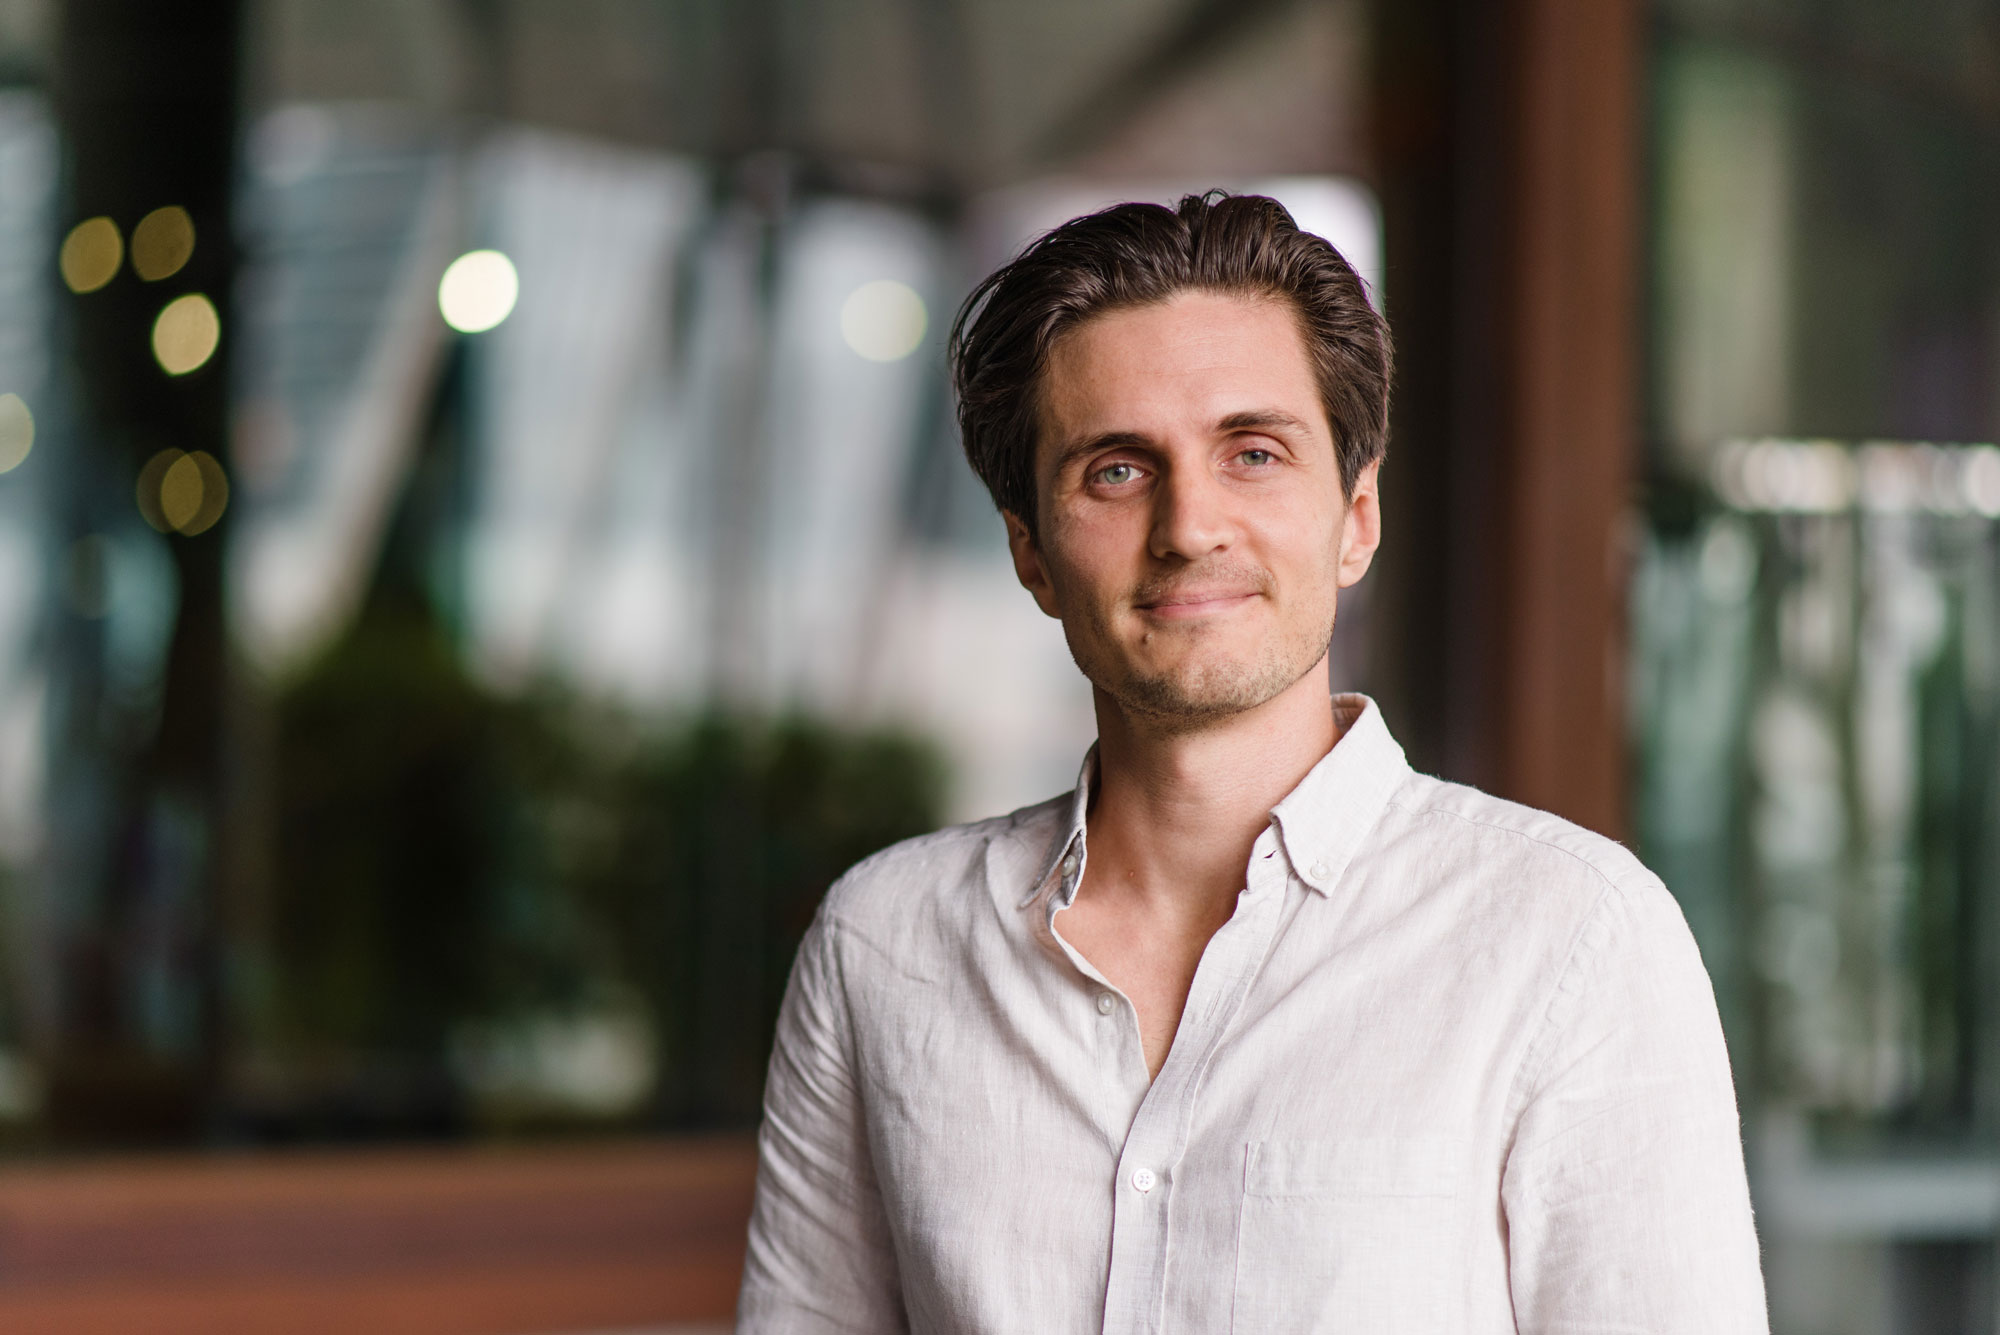
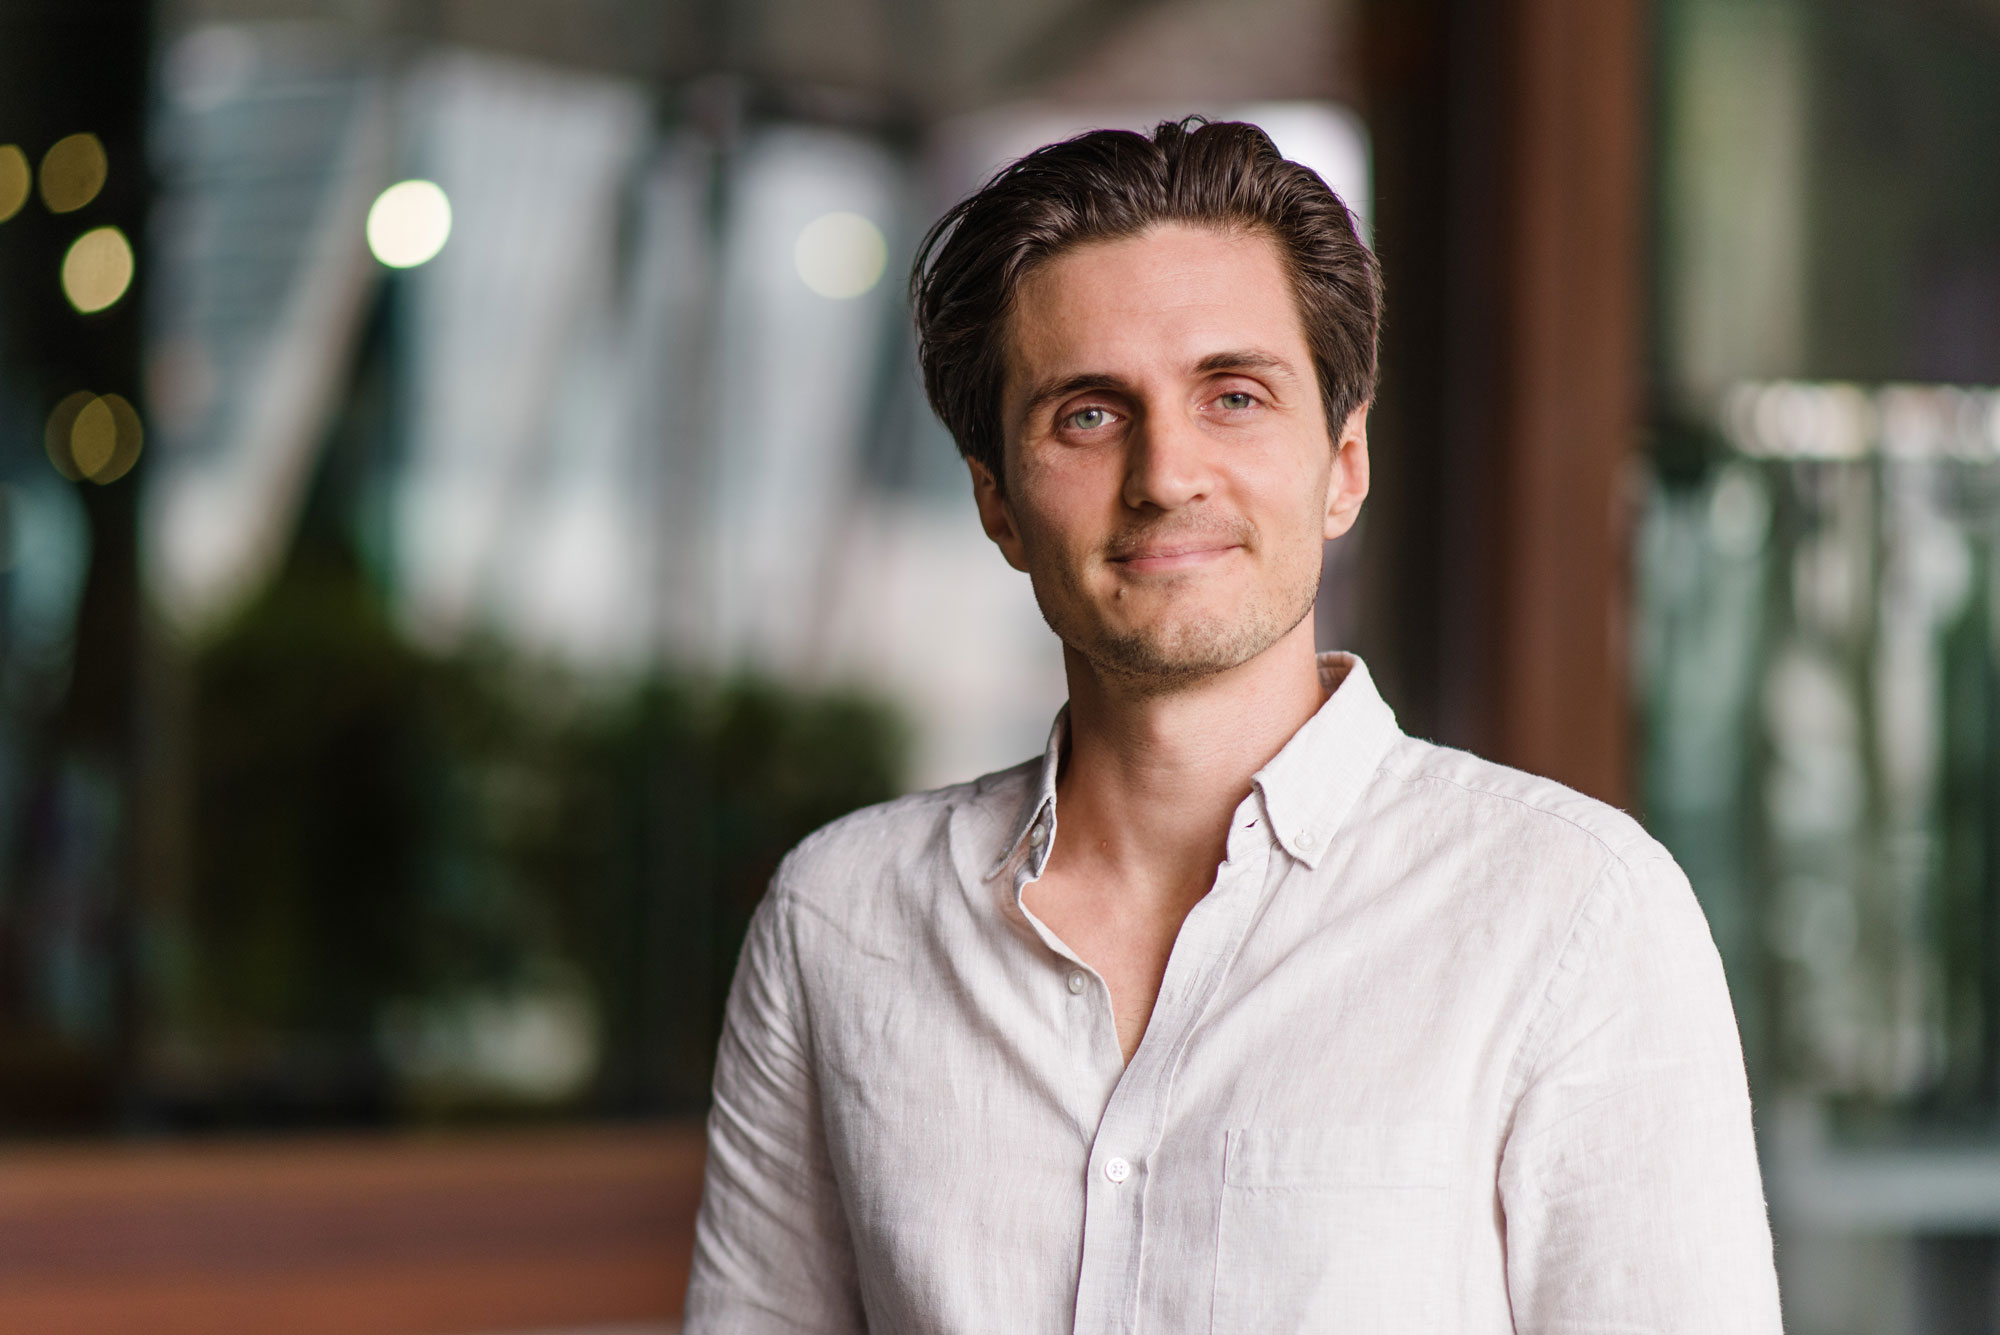
wip

diff --git a/_sass/modules/_hero.sass b/_sass/modules/_hero.sass
@@ -59,14 +59,14 @@
     h1
       line-height: 0.92
     p
-      +h4
+      +h5
       color: $color_grey_500
-      margin-bottom: 16px
-      max-width: 17em
+      margin-bottom: 20px
       @media (prefers-color-scheme: dark)
         color: $color_grey_400
       @media (min-width: $breakpoint_1)
         margin-bottom: 30px
+        max-width: 22em
   .heroImage
     display: block
     height: 300px
@@ -77,10 +77,10 @@
       height: 400px
       width: 400px
     @media (min-width: $breakpoint_2)
-      height: 540px
-      width: 540px
+      height: 500px
+      width: 480px
     @media (min-width: $breakpoint_4)
-      width: 700px
+      width: 600px
     &::before
       background: linear-gradient(-60deg, $color_primary_700, $color_secondary_200)
       border-radius: 6px

diff --git a/_sass/utilities/_settings.sass b/_sass/utilities/_settings.sass
@@ -115,7 +115,7 @@ $breakpoint_4: 1600px
   @media (min-width: $breakpoint_2)
     font-size: 23px
   @media (min-width: $breakpoint_3)
-    font-size: 26px
+    font-size: 30px
 
 @mixin h6
   font-family: -apple-system, BlinkMacSystemFont, sans-serif
@@ -170,5 +170,5 @@ $breakpoint_4: 1600px
   @media (prefers-color-scheme: dark)
     color: $color_grey_50
   @media (min-width: $breakpoint_2)
-    font-size: 20px
+    font-size: 22px
     letter-spacing: 0.5px
